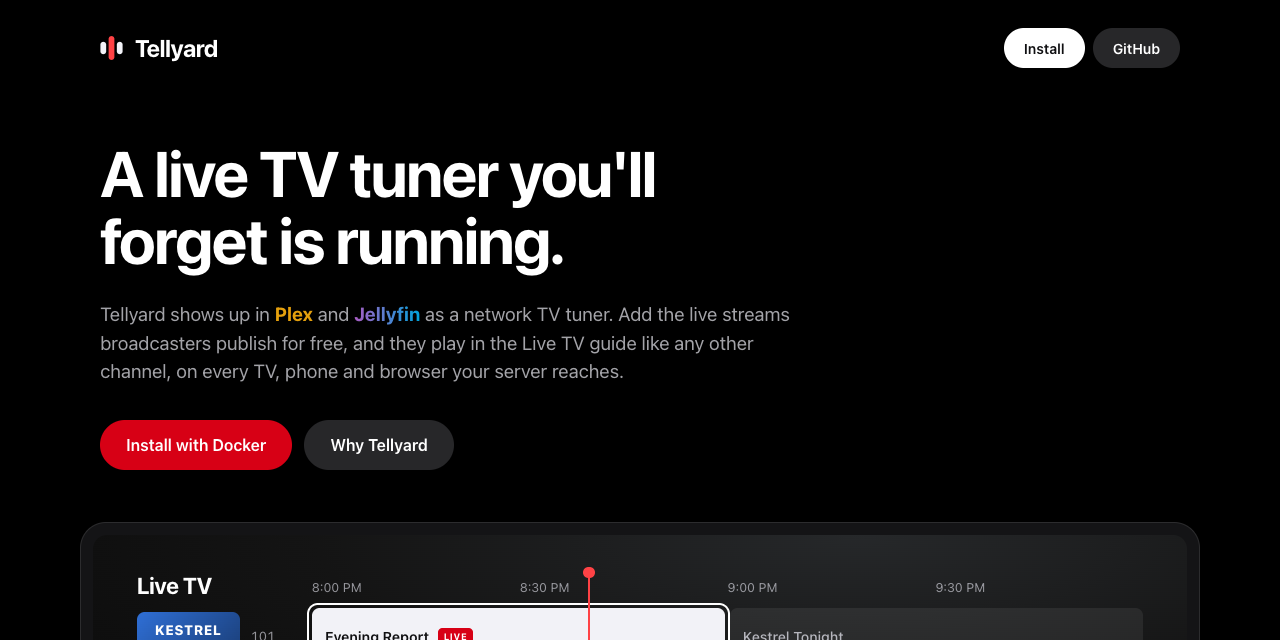
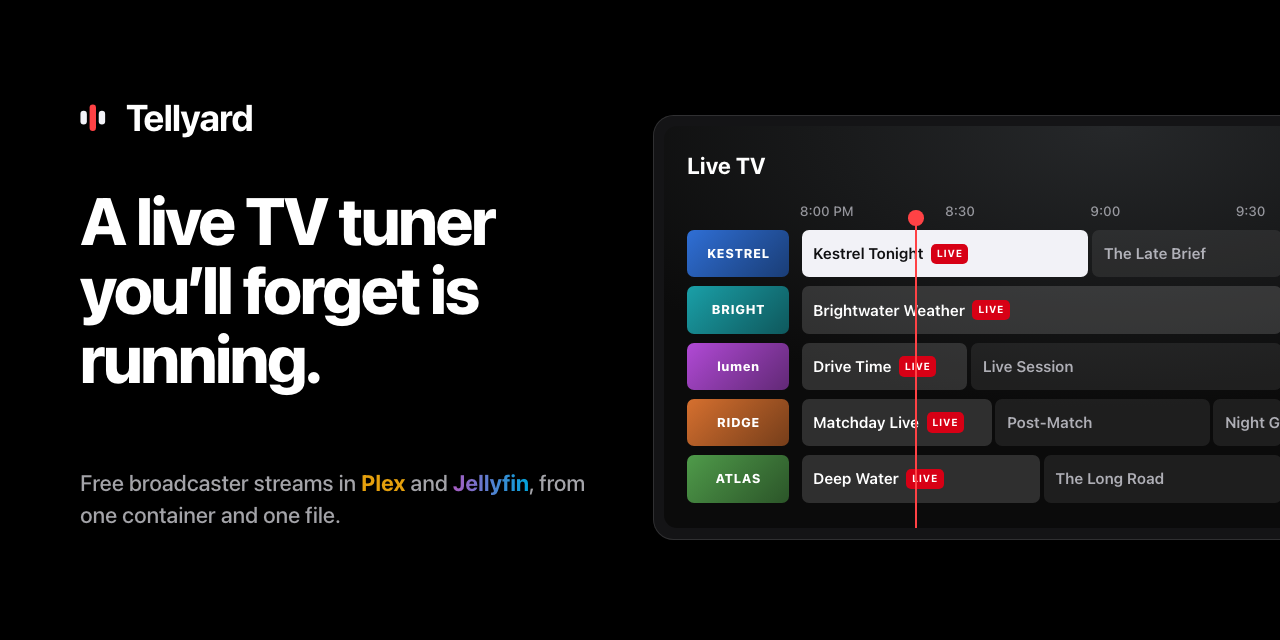
Feature: landing page guide on the visitor's clock and a new social card (#13)
* Run the landing page guide on the visitor's clock

* Replace the social card with a headline and a TV guide

diff --git a/site/template.html b/site/template.html
@@ -20,12 +20,12 @@
     <meta property="og:image" content="{{social_card}}" />
     <meta property="og:image:width" content="1280" />
     <meta property="og:image:height" content="640" />
-    <meta property="og:image:alt" content="The Tellyard mark and a Plex Live TV guide with fictional channels" />
+    <meta property="og:image:alt" content="Tellyard, a live TV tuner, next to a Plex Live TV guide with fictional channels" />
     <meta name="twitter:card" content="summary_large_image" />
     <meta name="twitter:title" content="Tellyard: a live TV tuner you'll forget is running" />
     <meta name="twitter:description" content="{{description}}" />
     <meta name="twitter:image" content="{{social_card}}" />
-    <meta name="twitter:image:alt" content="The Tellyard mark and a Plex Live TV guide with fictional channels" />
+    <meta name="twitter:image:alt" content="Tellyard, a live TV tuner, next to a Plex Live TV guide with fictional channels" />
     <script type="application/ld+json">{{schema}}</script>
     <style>
       :root {
@@ -84,39 +84,46 @@
       .tv { max-width: 1160px; margin: 0 auto; padding: 0 20px; }
       .bezel { background: #141416; border: 1px solid rgba(255, 255, 255, 0.1); border-bottom: 0; border-radius: 26px 26px 0 0; padding: 12px 12px 0; box-shadow: 0 -2px 60px rgba(0, 0, 0, 0.5); }
       .screen { container-type: inline-size; position: relative; aspect-ratio: 5 / 2; overflow: hidden; border-radius: 14px 14px 0 0;
-        background: radial-gradient(90% 70% at 70% 0%, #26282a 0%, #141414 55%, #0b0b0b 100%); }
+        background: radial-gradient(90% 70% at 70% 0%, var(--glow, #26282a) 0%, #141414 55%, #0b0b0b 100%); transition: background 0.8s; }
       .guide { position: absolute; inset: 3.4cqw 4cqw 0; display: grid; grid-template-columns: 15cqw minmax(0, 1fr); row-gap: 0.8cqw; column-gap: 1cqw; align-content: start; }
-      .g-title { font-size: 2.1cqw; font-weight: 700; letter-spacing: -0.02em; align-self: end; }
-      .ruler { position: relative; display: grid; grid-template-columns: repeat(4, 1fr); font-size: 1.15cqw; color: rgba(235, 235, 245, 0.6); align-self: end; padding-bottom: 0.4cqw; }
-      .ch { display: flex; align-items: center; gap: 1cqw; height: 5.2cqw; }
+      .g-title { font-size: 2.1cqw; font-weight: 700; letter-spacing: -0.02em; align-self: end; white-space: nowrap; }
+      .g-title small { margin-left: 0.6em; font-size: 0.62em; font-weight: 600; letter-spacing: 0; color: rgba(235, 235, 245, 0.6); }
+      .ruler { position: relative; height: 2.4cqw; font-size: 1.15cqw; color: rgba(235, 235, 245, 0.6); align-self: end; }
+      .ruler span { position: absolute; bottom: 0.4cqw; white-space: nowrap; font-variant-numeric: tabular-nums; }
+      .ch { display: grid; grid-template-columns: 3.8cqw 9.4cqw; gap: 1.2cqw; align-items: center; height: 5.2cqw; }
       .logo { width: 9.4cqw; height: 4.4cqw; border-radius: 0.7cqw; background: linear-gradient(135deg, var(--tint), color-mix(in srgb, var(--tint) 55%, #000)); display: grid; place-content: center; text-align: center; line-height: 1; }
       .logo b { font-size: 1.25cqw; font-weight: 800; letter-spacing: 0.04em; color: #fff; }
       .logo i { font-style: normal; font-size: 0.75cqw; font-weight: 600; letter-spacing: 0.18em; color: rgba(255, 255, 255, 0.75); margin-top: 0.25cqw; }
-      .num { font-size: 1.2cqw; color: rgba(235, 235, 245, 0.6); font-variant-numeric: tabular-nums; }
-      .row { position: relative; display: grid; grid-template-columns: repeat(12, 1fr); gap: 0.4cqw; height: 5.2cqw; }
-      .cell { position: relative; display: flex; align-items: center; gap: 0.8cqw; min-width: 0; padding: 0 1.2cqw; border-radius: 0.7cqw; background: rgba(255, 255, 255, 0.07); }
-      .cell.on { background: rgba(255, 255, 255, 0.14); }
+      .num { text-align: right; font-size: 1.35cqw; font-weight: 600; color: rgba(235, 235, 245, 0.78); font-variant-numeric: tabular-nums; }
+      .row { position: relative; height: 5.2cqw; }
+      .cell { position: absolute; top: 0; bottom: 0; display: flex; align-items: center; gap: 0.8cqw; min-width: 0; padding: 0 1.2cqw; border: 0 solid transparent; border-width: 0 0.2cqw; background-clip: padding-box; border-radius: 0.9cqw; background-color: rgba(255, 255, 255, 0.07); overflow: hidden; }
+      .cell.tiny { padding: 0; }
+      .cell.tiny > * { display: none; }
+      .cell.on { background-color: rgba(255, 255, 255, 0.14); }
       .cell .t { font-size: 1.3cqw; font-weight: 600; white-space: nowrap; overflow: hidden; text-overflow: ellipsis; }
       .cell:not(.on) .t { color: rgba(235, 235, 245, 0.72); font-weight: 500; }
       .live { flex: none; padding: 0.25cqw 0.55cqw; border-radius: 0.4cqw; background: var(--accent-fill); font-size: 0.85cqw; font-weight: 700; letter-spacing: 0.06em; }
-      .cell.focus { background: #f2f2f7; }
+      .cell.focus { background-color: #f2f2f7; overflow: visible; }
       .cell.focus .t { color: #101012; }
-      .focus::after { content: ""; position: absolute; inset: -0.45cqw; border: 0.22cqw solid #fff; border-radius: 1cqw; }
+      .focus::after { content: ""; position: absolute; inset: -0.45cqw -0.65cqw; border: 0.22cqw solid #fff; border-radius: 1.1cqw; }
       .now { position: absolute; top: 0; bottom: 0; width: 0.18cqw; margin-left: -0.09cqw; background: var(--accent); pointer-events: none; }
       .now::before { content: ""; position: absolute; top: -0.5cqw; left: -0.45cqw; width: 1.08cqw; height: 1.08cqw; border-radius: 50%; background: var(--accent); }
+      @media (prefers-reduced-motion: no-preference) { .now { transition: left 1s linear; } }
       .lane { position: absolute; top: 0; bottom: 0; left: calc(15cqw + 1cqw); right: 0; pointer-events: none; }
 
       @container (max-width: 640px) {
         .guide { inset: 5cqw 4cqw 0; grid-template-columns: 22cqw minmax(0, 1fr); row-gap: 2cqw; }
         .g-title { font-size: 4.6cqw; }
-        .ruler { font-size: 2.8cqw; grid-template-columns: repeat(2, 1fr); }
-        .ruler span:nth-child(n + 3) { display: none; }
-        .ch { height: 11cqw; }
+        .g-title small { display: none; }
+        .ruler { font-size: 2.8cqw; height: 5cqw; }
+        .ruler span:nth-child(even) { display: none; }
+        .cell:not(.focus) .live { display: none; }
+        .ch { height: 11cqw; grid-template-columns: 20cqw; }
         .logo { width: 20cqw; height: 9.5cqw; border-radius: 1.6cqw; }
         .logo b { font-size: 2.7cqw; }
         .logo i { font-size: 1.6cqw; }
         .num { display: none; }
-        .row { height: 11cqw; gap: 1cqw; }
+        .row { height: 11cqw; }
         .cell { padding: 0 2.4cqw; border-radius: 1.6cqw; }
         .cell .t { font-size: 3cqw; }
         .live { font-size: 2cqw; padding: 0.5cqw 1cqw; border-radius: 0.8cqw; }
@@ -251,10 +258,10 @@
       <div class="tv-band">
         <div class="tv">
           <div class="bezel">
-            <div class="screen" role="img" aria-label="A Plex Live TV guide with five fictional channels, the first one playing live">
+            <div class="screen" id="guide" role="img" aria-label="A Plex Live TV guide with five fictional channels, the first one playing live">
               <div class="guide" aria-hidden="true">
                 <span class="g-title">Live TV</span>
-                <div class="ruler"><span>8:00 PM</span><span>8:30 PM</span><span>9:00 PM</span><span>9:30 PM</span></div>
+                <div class="ruler">{{guide_ruler}}</div>
                 {{guide_rows}}
                 <div class="lane"><span class="now" style="left: {{now_left}}%"></span></div>
               </div>
@@ -337,6 +344,7 @@
       </div>
     </footer>
     <p class="sr-only" id="live" aria-live="polite"></p>
+    <script type="application/json" id="guide-data">{{guide_data}}</script>
     <script>
       const live = document.getElementById("live");
       async function copyText(code) {
@@ -355,6 +363,79 @@
         brand.addEventListener("pointerenter", play);
         brand.addEventListener("focus", play);
       }
+      const screen = document.getElementById("guide");
+      const lanes = screen.querySelectorAll(".row");
+      const ruler = screen.querySelector(".ruler");
+      const title = screen.querySelector(".g-title");
+      const now = screen.querySelector(".now");
+      const schedule = JSON.parse(document.getElementById("guide-data").textContent);
+      const clock = new Intl.DateTimeFormat(undefined, { hour: "numeric", minute: "2-digit" });
+      const MINUTE = 60000;
+      const SPAN = 120 * MINUTE;
+      const glow = (hour) => (hour < 5 ? "#16131f" : hour < 9 ? "#2b3646" : hour < 17 ? "#2a2f33" : hour < 21 ? "#3a2b22" : "#221c2a");
+      let windowStart = 0;
+      let minute = -1;
+      let cells = [];
+      function shows(channel, from, to) {
+        const day = new Date(from);
+        const starts = [-1, 0, 1, 2].flatMap((offset) =>
+          channel.slots.map(([at, name]) => ({ name, start: new Date(day.getFullYear(), day.getMonth(), day.getDate() + offset, 0, at).getTime() })),
+        );
+        return starts.slice(0, -1).map((show, i) => ({ ...show, end: starts[i + 1].start })).filter((show) => show.end > from && show.start < to);
+      }
+      function render(time) {
+        const start = new Date(time);
+        start.setMinutes(start.getMinutes() < 30 ? 0 : 30, 0, 0);
+        windowStart = start.getTime();
+        ruler.replaceChildren(...[0, 1, 2, 3].map((i) => {
+          const label = document.createElement("span");
+          label.style.left = `${i * 25}%`;
+          label.textContent = clock.format(windowStart + i * 30 * MINUTE);
+          return label;
+        }));
+        cells = schedule.flatMap((channel, row) => {
+          const found = shows(channel, windowStart, windowStart + SPAN).map((show) => {
+            const from = Math.max(show.start, windowStart);
+            const to = Math.min(show.end, windowStart + SPAN);
+            const cell = document.createElement("div");
+            const name = document.createElement("span");
+            cell.className = (to - from) / SPAN < 0.06 ? "cell tiny" : "cell";
+            cell.style.left = `${((from - windowStart) / SPAN) * 100}%`;
+            cell.style.width = `${((to - from) / SPAN) * 100}%`;
+            name.className = "t";
+            name.textContent = show.name;
+            cell.append(name);
+            return { ...show, cell, row };
+          });
+          lanes[row].replaceChildren(...found.map((show) => show.cell));
+          return found;
+        });
+        minute = -1;
+      }
+      function tick() {
+        const time = Date.now();
+        if (time - windowStart >= 30 * MINUTE || time < windowStart) render(time);
+        now.style.left = `${((time - windowStart) / SPAN) * 100}%`;
+        if (Math.floor(time / MINUTE) === minute) return;
+        minute = Math.floor(time / MINUTE);
+        for (const show of cells) {
+          const on = show.start <= time && time < show.end;
+          show.cell.classList.toggle("on", on);
+          show.cell.classList.toggle("focus", on && show.row === 0);
+          const badge = show.cell.querySelector(".live");
+          if (on && !badge) {
+            const live = document.createElement("span");
+            live.className = "live";
+            live.textContent = "LIVE";
+            show.cell.append(live);
+          } else if (!on && badge) badge.remove();
+        }
+        const hour = new Date(time).getHours();
+        screen.style.setProperty("--glow", glow(hour));
+        title.innerHTML = hour < 5 ? "Live TV<small>Late night</small>" : "Live TV";
+      }
+      tick();
+      setInterval(tick, 1000);
       for (const button of document.querySelectorAll(".copy")) {
         button.addEventListener("click", async () => {
           const code = button.closest(".code").querySelector("code");

diff --git a/CHANGELOG.md b/CHANGELOG.md
@@ -6,6 +6,10 @@ The format is based on [Keep a Changelog](https://keepachangelog.com/en/1.1.0/),
 
 ## [Unreleased]
 
+### Changed
+
+- Run the landing page guide on the visitor's clock, with shows that start at different times.
+
 ### Fixed
 
 - Fix screen reader labels on the landing page and send a Content Security Policy with it.
